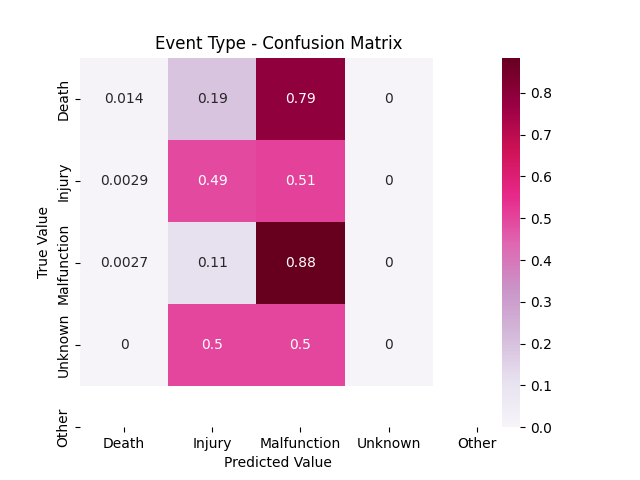
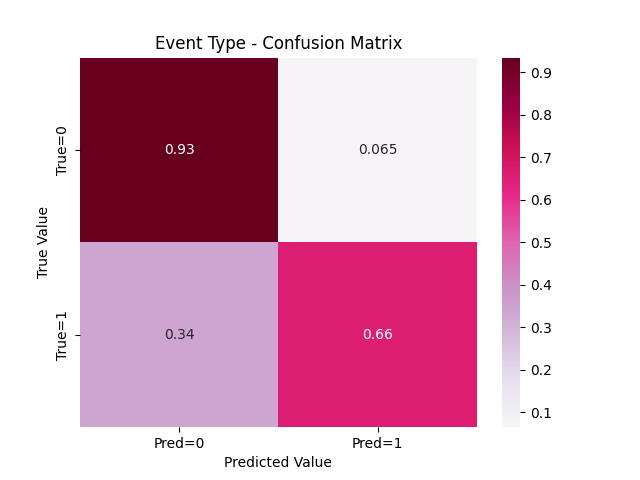
Merge branch 'main' of https://github.com/zibdie/CSE6242-Group-Project

diff --git a/server/model_objects/run_algos.py b/server/model_objects/run_algos.py
@@ -4,9 +4,18 @@ pip install scikit-learn nltk matplotlib cleanco levenshtein name_matching xgboo
 make sure "xgboost" directory exists in path
 """
 import pandas as pd
+from sklearn.multioutput import MultiOutputRegressor
+from sklearn.ensemble import RandomForestRegressor
+from sklearn.metrics import r2_score, mean_squared_error, mean_absolute_error
+
 from sklearn.model_selection import cross_val_score, cross_validate, train_test_split
 from sklearn.metrics import accuracy_score, classification_report, confusion_matrix
 from nltk.corpus import stopwords
+from sklearn.multioutput import MultiOutputClassifier
+import xgboost as xgb
+from sklearn.metrics import hamming_loss, f1_score
+from sklearn.preprocessing import MultiLabelBinarizer , OneHotEncoder
+from sklearn.multiclass import OneVsRestClassifier
 from sklearn.feature_extraction.text import TfidfVectorizer
 import numpy as np
 from sklearn.cluster import KMeans
@@ -110,8 +119,8 @@ def preprocess_data(df, categorical, text, numerical, encoder=None, vectorizer=N
         # dimensionality reduction using pca and convert to df; tfidf returns sparse arrays
         if run_pca:
             if pca is None:
-                # keep 500 cols
-                pca = PCA(n_components=500)
+                # keep 1000 cols
+                pca = PCA(n_components=1000)
                 pca.fit(text_data_vectorized)
             text_data_pca = pd.DataFrame(pca.transform(text_data_vectorized))
         else:
@@ -124,7 +133,7 @@ def preprocess_data(df, categorical, text, numerical, encoder=None, vectorizer=N
     if numerical != []:
         numerical_data = df[numerical]
         for c in numerical:
-            numerical_data[c] = pd.to_numeric(numerical_data[c], errors='coerce').fillna(0)
+            numerical_data.loc[:, c] = pd.to_numeric(numerical_data[c], errors='coerce').fillna(0)
     else:
         numerical_data = pd.DataFrame()
 
@@ -226,8 +235,8 @@ def train_model():
         sns.heatmap(matrix, 
                     annot=True, 
                     cmap='PuRd',
-                    xticklabels=['Recall=False', 'Recall=True'],
-                    yticklabels=['Recall=False', 'Recall=True']
+                    xticklabels=['Pred=0', 'Pred=1'],
+                    yticklabels=['True=0', 'True=1']
                     )
         plt.xlabel('Predicted Value')
         plt.ylabel('True Value')
@@ -263,59 +272,58 @@ def train_model():
         numerical = []
         text = 'device_name' 
         data, encoder, vectorizer, pca = preprocess_data(df_device_event, categorical, text, numerical)
-        # label output using encoder
-        le = LabelEncoder()
-        y = le.fit_transform(df_device_event['event_type'])
-        # labels = {'Death': 0, 'Injury': 1, 'Malfunction': 2, 'No answer provided': 3, 'Other': 4}
-        # df_device_event['y'] = df_device_event['event_type'].replace(labels)
-        # # if any nulls, replace with 3 as default
-        # df_device_event['y'].fillna(3, inplace=True)
+        # # label output using encoder
+        # le = LabelEncoder()
+        # y = le.fit_transform(df_device_event['event_type'])
+
+        # y is the binary list of events      
+        y = pd.get_dummies(df_device_event['event_type'], prefix='y')
+        labels = [output.replace('y_', '') for output in y.columns]
 
         ########### train data ##############
         print('training...')
         # split into X and y
         X = data.values
-        # y = df_device_event['y']
-
         print(X.shape, y.shape)
+
         X_train, X_test, y_train, y_test = train_test_split(X, y, test_size=0.25, random_state=62)
 
-        # # train via hyperparameter tuning
-        # param_grid = {
-        #     'max_depth': [2, 5, 10],
-        # }
-        # model = xgb.XGBClassifier() 
-
-        # # grid search
-        # grid_search = GridSearchCV(model, param_grid, scoring='accuracy')
-        # grid_search.fit(X, y)
-        
-        # # get best model accuracy
-        # model = grid_search.best_estimator_
-        # accuracy = grid_search.best_score_
-        # print(f'Best Accuracy in Grid: {accuracy * 100:.2f}')
-        
-        # train
-        model = xgb.XGBClassifier()
+        # train multioutput xgboost
+        model = MultiOutputClassifier(xgb.XGBClassifier(n_estimators=50, random_state=62, objective='binary:logistic', eval_metric='logloss'), n_jobs=-1 )
         model.fit(X_train, y_train)
-
-        # get accuracy
+    
+        # get accuracy foe each label
         predictions = model.predict(X_test)
-        accuracy = accuracy_score(y_test.astype(int), predictions)
-        print(f'Test Accuracy: {accuracy * 100:.2f}%')
+        accuracies = [accuracy_score(y_test.iloc[:, i], predictions[:, i]) for i in range(len(labels))]  # for each label
+        for i, accuracy in enumerate(accuracies):
+            print(f'Test Accuracy for {labels[i]}: {accuracy * 100:.4f}')
 
-        # generate confusion matrix
-        matrix = confusion_matrix(y_test, predictions, normalize='true')
+        # generate aggregated confusion matrix
+        y_true_flat = y_test.values.flatten()
+        y_pred_flat = predictions.flatten()
+        matrix = confusion_matrix(y_true_flat, y_pred_flat, normalize='true')
         fig = plt.figure()
         sns.heatmap(matrix, 
                     annot=True, 
                     cmap='PuRd',
-                    xticklabels=['Death', 'Injury', 'Malfunction', 'Unknown', 'Other'],
-                    yticklabels=['Death', 'Injury', 'Malfunction', 'Unknown', 'Other'],
+                    xticklabels=['Pred=0', 'Pred=1'],
+                    yticklabels=['True=0', 'True=1']
                     )
         plt.xlabel('Predicted Value')
         plt.ylabel('True Value')
         plt.title('Event Type - Confusion Matrix')
+
+        # matrix = confusion_matrix(y_test, predictions, normalize='true')
+        # fig = plt.figure()
+        # sns.heatmap(matrix, 
+        #             annot=True, 
+        #             cmap='PuRd',
+        #             xticklabels=['Death', 'Injury', 'Malfunction', 'Unknown', 'Other'],
+        #             yticklabels=['Death', 'Injury', 'Malfunction', 'Unknown', 'Other'],
+        #             )
+        # plt.xlabel('Predicted Value')
+        # plt.ylabel('True Value')
+        # plt.title('Event Type - Confusion Matrix')
 
         print(f'\n----------- XGBoost runtime: {time.time() - start} seconds -----------')
 
@@ -329,13 +337,11 @@ def train_model():
         with open('model_objects/classifier/event_type/encoder.pkl', 'wb') as f:
             pickle.dump(encoder, f)
         with open('model_objects/classifier/event_type/accuracy.pkl', 'wb') as f:
-            pickle.dump(accuracy, f)        
-        # with open('model_objects/classifier/event_type/confusion_matrix.pkl', 'wb') as f:
-        #     pickle.dump(fig, f)
+            pickle.dump(accuracies, f)     
         plt.savefig('model_objects/classifier/event_type/confusion_matrix.png')
 
     print('\nTRAINING RECALL PROBABILITY....')
-    train_recall_probability()
+    # train_recall_probability()
     
     print('\nTRAINING EVENT TYPE CLASSIFICATION....')
     train_event_classification()
@@ -352,8 +358,6 @@ def get_model_objects(path):
         encoder = pickle.load(f)
     with open(f'{path}/accuracy.pkl', 'rb') as f:
         accuracy = pickle.load(f)
-    # with open(f'{path}/confusion_matrix.pkl', 'rb') as f:
-    #     matrix = pickle.load(f)
     matrix = f'{path}/confusion_matrix.png'
     return model, encoder, vectorizer, pca, accuracy, matrix
 
@@ -361,8 +365,7 @@ def get_model_objects(path):
 def make_prediction(device_name, path):
     # get model params
     model, encoder, vectorizer, pca, _, _ = get_model_objects(path)
-    print('PREDICTION FROM: ', path)
-    print('device name: ', device_name)
+
     # depending on model type, get query and preprocess
     if 'recall_probability' in path:
         # get data from query
@@ -375,12 +378,14 @@ def make_prediction(device_name, path):
                 d.openfda_regulation_number as regulation_number,
                 case when c.submission_type_id = '2' then 1 else 0 end as pma_approval,
                 case when c.submission_type_id = '1' then 1 else 0 end as "510k_approval",
-                count(*) as num_events
+                count(e.event_id) as num_events
             from device d
             join device_event e
                 on e.event_id = d.event_id
-            join device_classification c 
+            left join device_classification c 
                 on c.device_name = d.openfda_device_name 
+            left join recall r
+                on r.openfda_device_name = d.openfda_device_name
             where device_name = '%s'
             group by
                 d.openfda_device_name,
@@ -417,7 +422,7 @@ def make_prediction(device_name, path):
             where openfda_device_name = '%s'
 
         """ % device_name
-        df = read_table('device_event', query)
+        df = read_table('device_event', query).drop_duplicates()
         # if no data found, return -1
         if df.empty:
             return -1, None, None
@@ -428,15 +433,17 @@ def make_prediction(device_name, path):
         X, encoder, vectorizer, pca = preprocess_data(df, [], text, [], encoder, vectorizer, pca)
 
         # make prediction 
-        prediction =  model.predict(X)
-        # if we have more than one row for device_name keep first prediction
-        return prediction[0], model.predict_proba(X)[0], df
+        predictions =  model.predict(X)
+        # we have 5 outputs, so get the value of highest probability
+        max_index = np.argmax(predictions[0])
+        print('PREDICTIONS', max_index)
+        return max_index, model.predict_proba(X), df        
 
 # get model accuracy and generate confusion  matrix to display
 def get_model_accuracy(path):
-    # get model accuracy 
-    _, _, _, _, accuracy, matrix_plt = get_model_objects(path)
-    return accuracy, matrix_plt
+    # get model accuracy and matrix
+    _, _, _, _, accuracy, matrix = get_model_objects(path)
+    return accuracy, matrix
 
 # train and save cluster
 def create_cluster():

diff --git a/server/pages/Predictive Modelling.py b/server/pages/Predictive Modelling.py
@@ -33,7 +33,11 @@ def fetch_device_names_all():
         return pd.DataFrame()
     try:
         query = """
-            select distinct openfda_device_name as device_name from device
+            select distinct openfda_device_name as device_name 
+            from device d
+            join device_event e
+                on e.event_id = d.event_id
+            where event_type is not null
         """
         with conn.cursor(cursor_factory=RealDictCursor) as cur:
             cur.execute(query)
@@ -46,7 +50,23 @@ def fetch_device_names_all():
         return pd.DataFrame()
     finally:
         conn.close()
+
+# convert data types to Arrow-compatible types
+def fix_dataframe(df):
+    df = df.copy()
+    for col in df.select_dtypes(include=['object']).columns:
+        df[col] = df[col].astype(str)
+    for col in df.select_dtypes(include=['datetime64']).columns:
+        df[col] = pd.to_datetime(df[col], errors='coerce')
+    for col in df.select_dtypes(include=['float', 'int', 'bool']).columns:
+        df[col] = pd.to_numeric(df[col], errors='coerce')
+    # df = df.fillna({
+    #     col: '' if dtype.kind in 'OSU' else 0  # String columns get empty string, numeric get 0
+    #     for col, dtype in df.dtypes.items()
+    # })
     
+    return df
+
 def model_data(st):   
     st.title("Predictive Modeling")
     
@@ -56,31 +76,39 @@ def model_data(st):
         2) the type of event that is most likely to occur. 
         This is helpful for manufacturers to determine the likelihood of a particular device to have issues, allowing them to take preventative measures and prioritize safety prior to market release. 
 
-        Both models were trained using XGBoost classifiers; the recall probability used a logistic regression implementation since it was a binary output, while the event types had multiple classes: Death, Injury, Malfunction, Unknown, and Other. The data was preprocessed based on feature type: 
+        Both models were trained using logistic regression classification models. Recall probability is a binary output; however, event types had multiple classes - Death, Injury, Malfunction, Unknown, and Other - and it's possible for a device to be associated with multiple types. For this reason, a model was trained for each type, and the one with the highest probability is displayed. 
+        
+        The data was preprocessed based on feature type: 
         a) categorical features were one-hot encoded.
         b) numerical features were impute.
         c) text features were transformed to remove stopwords and vectorized using Term Frequency-Inverse Document Frequency (TF-IDF).
 
-        The models were trained on 80% of the input data, which was gathered from the device event and recall related tables, and the remaining 20% is used to determine the test accuracies and confusion matrices shown below. The features included device name, approval type (PMA vs 510k), number of adverse events, and device classification. 
+        The models were trained on 80% of the input data, which was gathered from the device event and recall related tables, and the remaining 20% is used to determine the test accuracies and confusion matrices shown below. Note that the event type classifier's matrix represents the aggregate of all models. The features included device name, approval type (PMA vs 510k), number of adverse events, and device classification. 
+            
     """)
     
-    col1, col2 = st.columns(2)
+    tab1, tab2 = st.tabs(['Recall Probability', 'Predicted Event Type'])
     path1 = 'model_objects/classifier/recall_probability'
     path2 = 'model_objects/classifier/event_type'
     
-    labels = {0: 'Death', 1: 'Injury', 2: 'Malfunction', 3: 'Unknown/Other', 4: 'Unknown/Other'}
+    labels = ['Death', 'Injury', 'Malfunction', 'Not Provided', 'Other']
 
-    # get accuracies
+    # get accuracies and show
     accuracy1, plt1 = a.get_model_accuracy(path1)
-    col1.metric('Test Accuracy for Recall Probability ', f'{accuracy1*100:.3f}%', border=True)
-
     accuracy2, plt2 = a.get_model_accuracy(path2)
-    col2.metric('Test Accuracy for Event Type Prediction ', f'{accuracy2*100:.3f}%', border=True)
-    
+
+    tab1.metric('Test Accuracy for Recall Probability', f'{accuracy1*100:.3f}%')
+
+    a1, a2, a3, a4, a5 = tab2.tabs(labels)
+    a1.metric('Test Accuracy', f'{accuracy2[0] * 100:.3f}%')
+    a2.metric('Test Accuracy', f'{accuracy2[1] * 100:.3f}%')
+    a3.metric('Test Accuracy', f'{accuracy2[2] * 100:.3f}%')
+    a4.metric('Test Accuracy', f'{accuracy2[3] * 100:.3f}%')
+    a5.metric('Test Accuracy', f'{accuracy2[4] * 100:.3f}%')
+
     # get confusion matrices
-    col1, col2 = st.columns(2)
-    col1.image(plt1)
-    col2.image(plt2)
+    tab1.image(plt1)
+    tab2.image(plt2)
 
     # add dropdown for device name search
     df_all = fetch_device_names_all()
@@ -96,27 +124,36 @@ def model_data(st):
         col1_1, col2_2 = st.columns(2)
 
         recall_probability, _, df = a.make_prediction(device_name, path1)
+
         event_class, event_probabilities, _ = a.make_prediction(device_name, path2)
-        event_type = labels.get(event_class, -1)
+        event_type = labels[event_class]
+
         if recall_probability != -1:
+            df = fix_dataframe(df)
             col1_1.metric('Probability of Recall ',  f'{recall_probability*100:.3f}%')
             # plot the table of feature values
             df = df.reset_index(drop=True)[['product_code', 'device_class', 'regulation_number', 'pma_approval', '510k_approval', 'num_events']]         
             col1_1.dataframe(df.T) 
+        else: col1.text('No data found.')
 
         if event_type != -1:
             col2_2.metric('Predicted Event Type ', event_type)
             # plot the bar chart of probability distribution
+            
             prob_df = pd.DataFrame.from_dict(
                 {
-                'Death': [float(event_probabilities[0])],
-                'Injury': [float(event_probabilities[1])],
-                'Malfunction':[float(event_probabilities[2])],
-                'Unknown/Other': [float(event_probabilities[3] + event_probabilities[4])]
+                'Death': [float(event_probabilities[0][0][1])],
+                'Injury': [float(event_probabilities[1][0][1])],
+                'Malfunction':[float(event_probabilities[2][0][1])],
+                'Not Provided': [float(event_probabilities[3][0][1])],
+                'Other': [float(event_probabilities[4][0][1])]
                 }
             )
+            print(prob_df)
             prob_df = prob_df.reset_index(drop=True)
-            col2_2.bar_chart(prob_df, x_label='Probability Breakdown for Device')
+            col2_2.bar_chart(prob_df.T, x_label='Probability Breakdown for Device')
+        else: col2.text('No data found')
+
     else:
         st.info("No device names found.")
 
